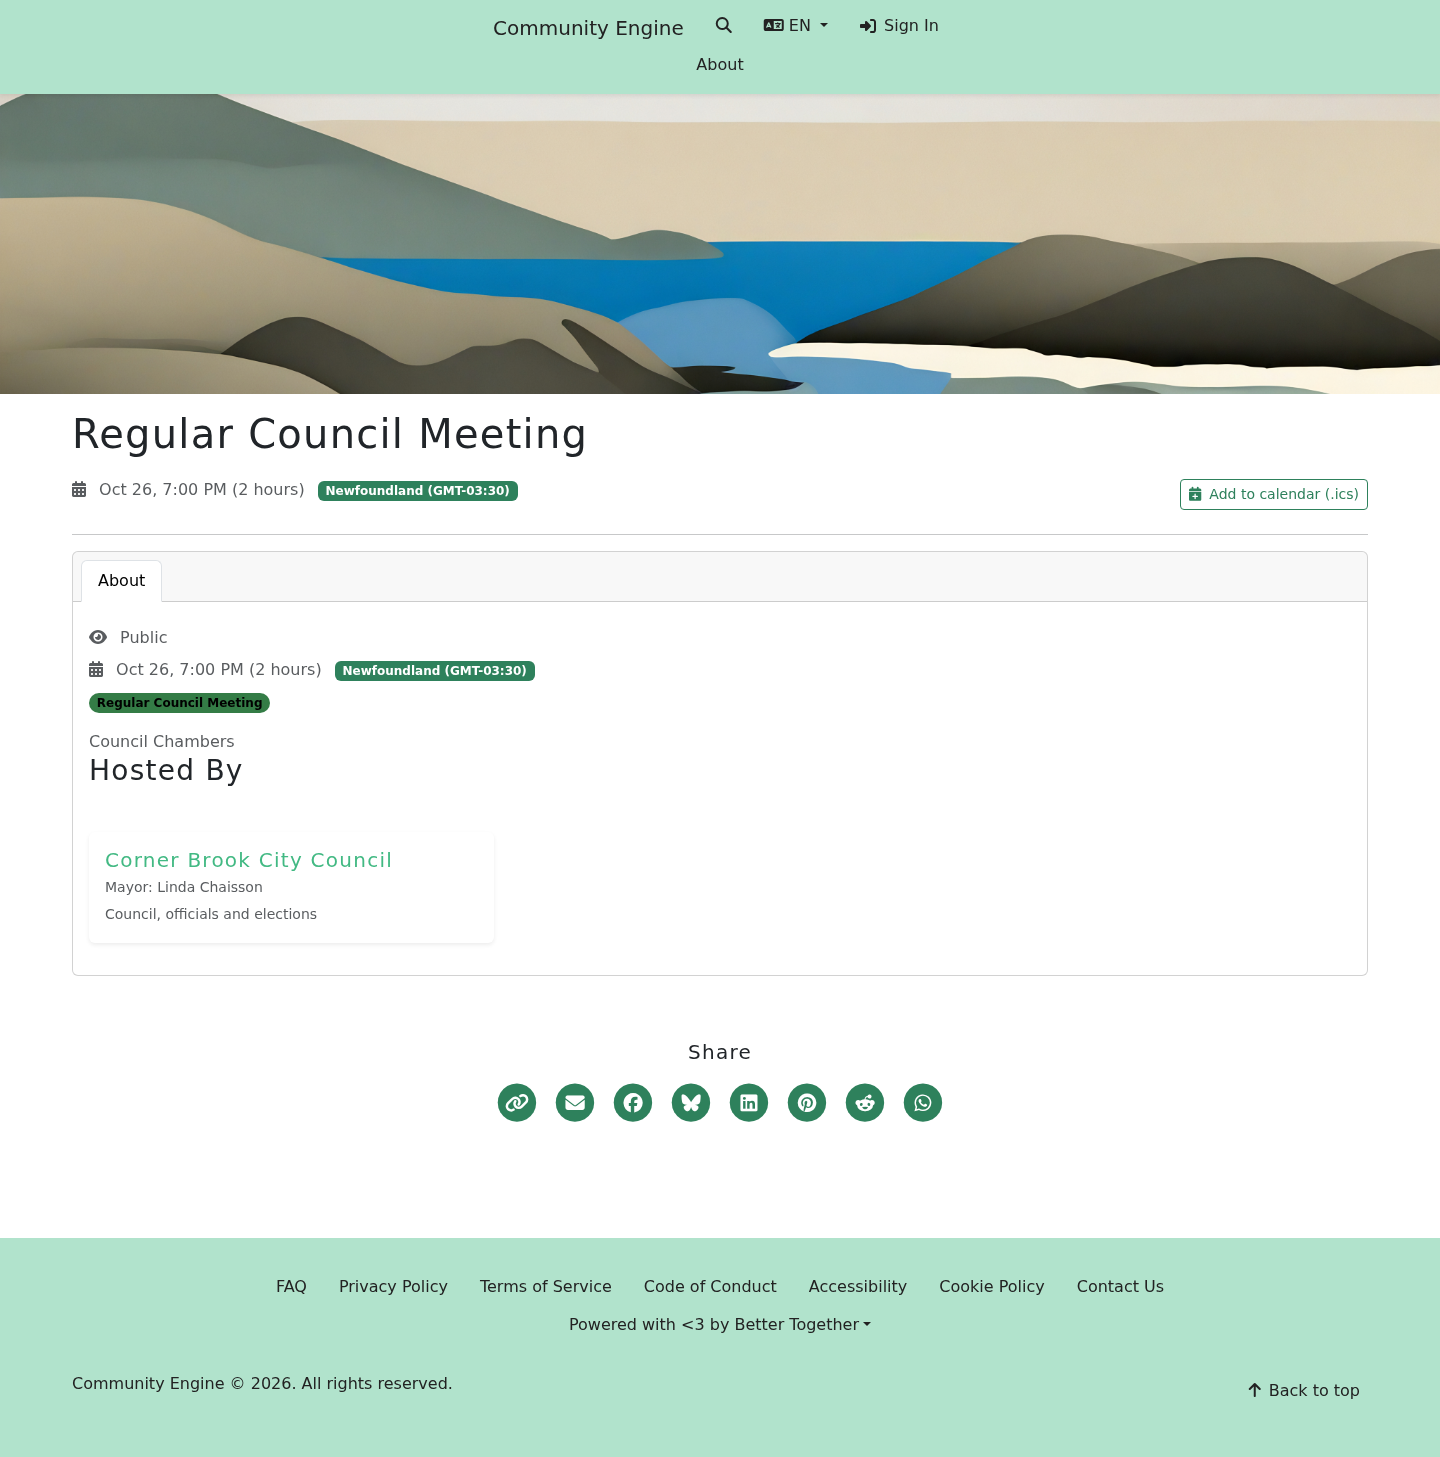
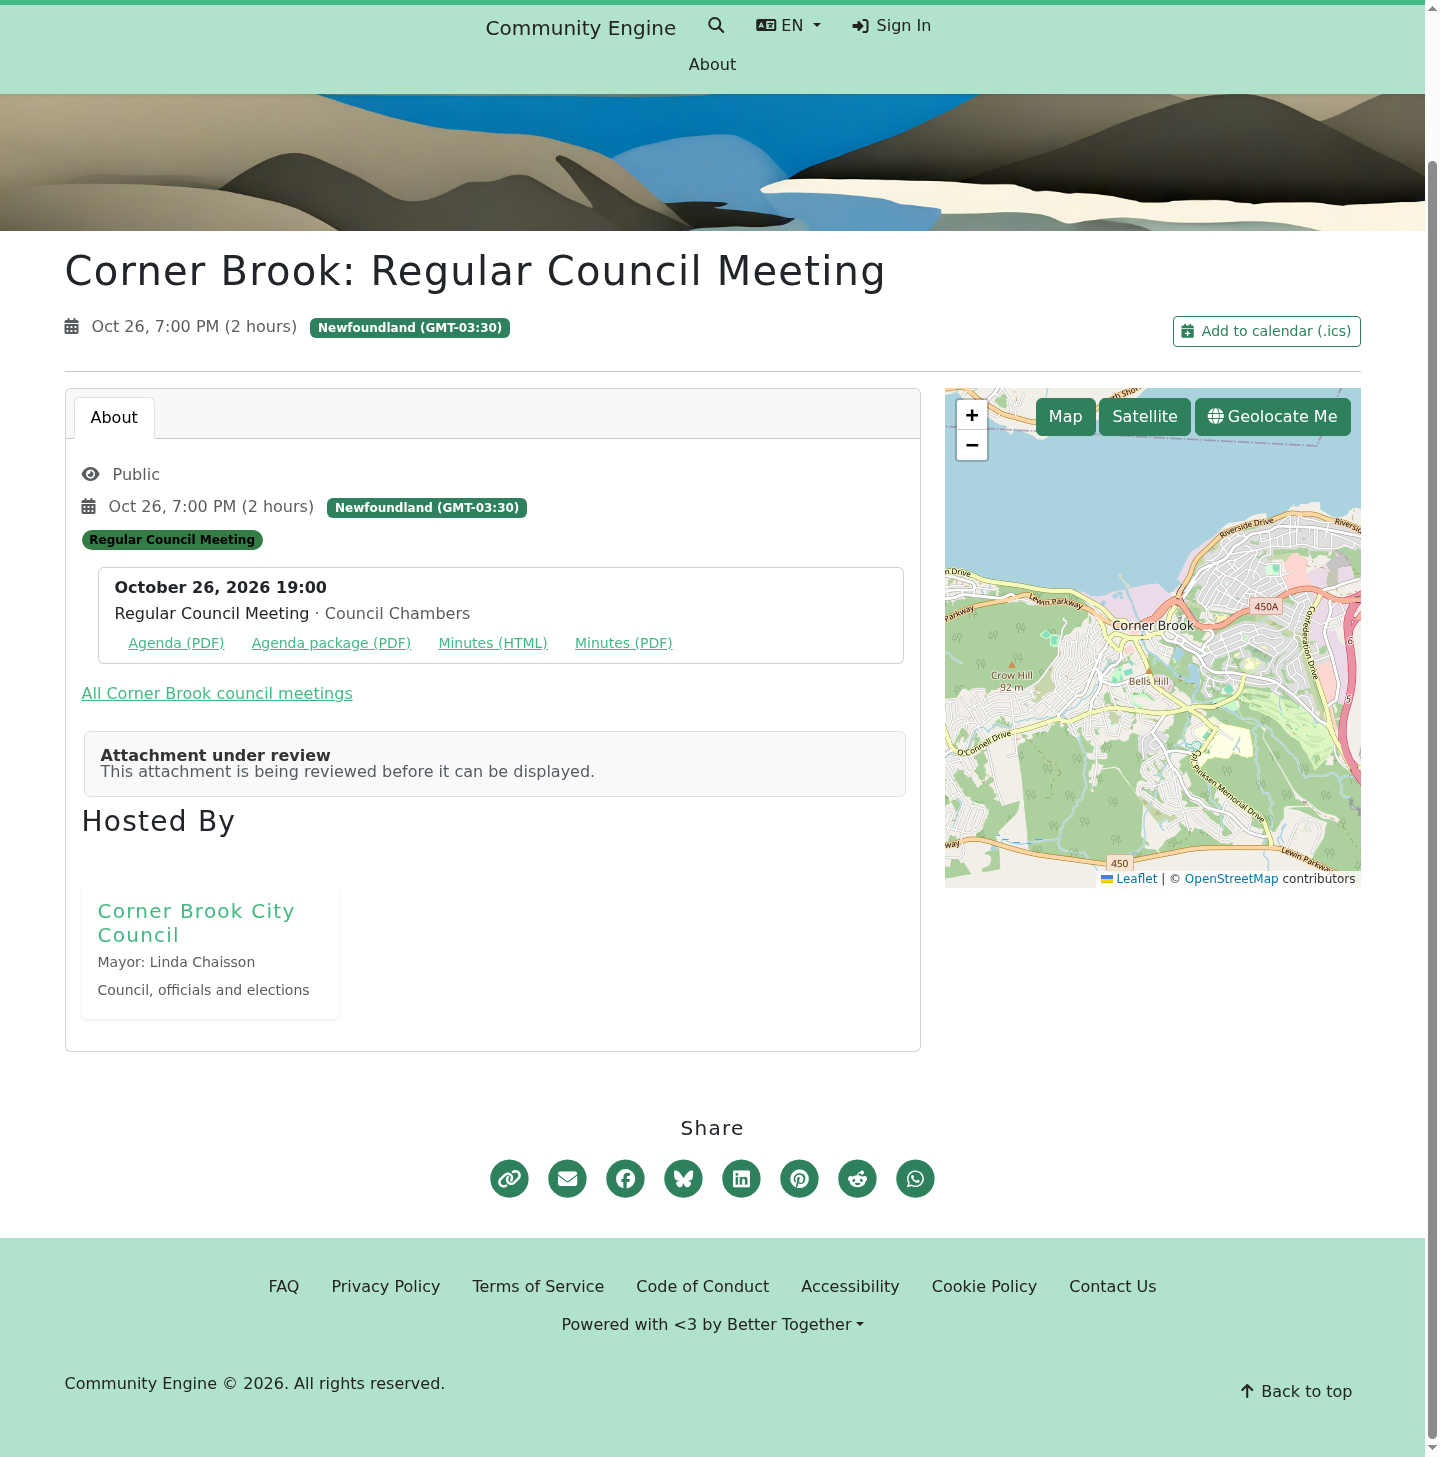
feat(meetings): embed meeting in event description, settlement-first title, locate at settlement

diff --git a/app/services/newfoundland_labrador_online/meetings/importer.rb b/app/services/newfoundland_labrador_online/meetings/importer.rb
@@ -25,6 +25,8 @@ module NewfoundlandLabradorOnline
         council = council_community
         return missing(council) unless council
 
+        @settlement = council_settlement
+
         @meetings.each { |meeting| import(council, meeting) }
         @result
       end
@@ -36,11 +38,15 @@ module NewfoundlandLabradorOnline
         @result
       end
 
-      def council_community
-        settlement = BetterTogether::Geography::Settlement.friendly.find(@config.fetch('council'))
-        Civic::Municipality.for(settlement)&.council
+      def council_settlement
+        BetterTogether::Geography::Settlement.friendly.find(@config.fetch('council'))
       rescue ActiveRecord::RecordNotFound
         nil
+      end
+
+      def council_community
+        settlement = council_settlement
+        settlement && Civic::Municipality.for(settlement)&.council
       end
 
       def import(council, data)
@@ -55,17 +61,18 @@ module NewfoundlandLabradorOnline
       def write(council, data, meeting, checksum)
         Meeting.transaction do
           meeting ||= Meeting.new(source: @source_key, source_id: data[:source_id])
-          meeting.update!(attributes_for(council, data, checksum))
+          meeting.update!(attributes_for(council, data, checksum, meeting.details))
           sync_documents(meeting, data[:documents])
           meeting.update!(event: write_event(meeting, council, data))
         end
       end
 
-      def attributes_for(council, data, checksum)
+      def attributes_for(council, data, checksum, details)
         body = @config.fetch('bodies').fetch(data[:body_type]) { unknown_body(data[:body_type]) }
         { body: council, kind: body['kind'], body_key: body['key'], title: data[:title], starts_at: data[:starts_at],
           location: data[:location], status: status_for(data), portal_url: data[:portal_url],
-          source_checksum: checksum, fetched_at: Time.current }
+          source_checksum: checksum, fetched_at: Time.current,
+          details: details.merge('video_urls' => data[:video_urls]) }
       end
 
       def unknown_body(type)
@@ -91,17 +98,61 @@ module NewfoundlandLabradorOnline
         platform = BetterTogether::Platform.find_by!(host: true)
         event = BetterTogether::Event.find_or_initialize_by(platform:, source_id: "#{@source_key}:#{data[:source_id]}")
         event.assign_attributes(event_attributes(meeting, data))
+        event.attachment_block_ids = video_block_ids(platform, meeting)
+        locate(event)
         event.event_hosts.build(host: council) if event.new_record?
         event.save!
         event.categories = [category_for(platform, data[:body_type])]
         event
       end
 
+      # Located at the council's city hall when the source configures an address (its geocoded point must fall inside
+      # the settlement boundary), else at the settlement itself, so the event lists under the settlement either way.
+      def locate(event)
+        address = @config['address']
+        if address
+          event.address_data = address.to_json
+        else
+          event.settlement_identifier = @settlement.identifier
+        end
+      end
+
+      # The settlement name leads the title so the event reads as a council meeting in any event list.
       def event_attributes(meeting, data)
-        { name: meeting.title.presence || data[:body_type], starts_at: meeting.starts_at,
+        { name: "#{@settlement.name}: #{meeting.title.presence || data[:body_type]}", starts_at: meeting.starts_at,
           duration_minutes: DEFAULT_DURATION_MINUTES, timezone: @config.fetch('time_zone'), privacy: 'public',
           status: meeting.cancelled? ? 'cancelled' : 'confirmed', source_updated_at: Time.current,
-          description: meeting.location.to_s }
+          description: description_html(meeting) }
+      end
+
+      # The meeting card (an Action Text attachment, so it carries the location and portal documents) and a link to
+      # the council's full meeting list. A recording is attached as a video block after this text (see video_block_ids).
+      def description_html(meeting)
+        card = ActionText::Attachment.from_attachable(meeting).to_html
+        "#{card}<p><a href=\"#{listing_path}\">#{ERB::Util.h(listing_label)}</a></p>"
+      end
+
+      def listing_path
+        code = Province.code_for(@settlement.state)
+        Rails.application.routes.url_helpers.newfoundland_labrador_online_municipality_meetings_path(
+          code, @settlement, locale: I18n.default_locale
+        )
+      end
+
+      def listing_label
+        I18n.t('newfoundland_labrador_online.municipal_meetings.index.all_meetings', name: @settlement.name)
+      end
+
+      # One platform video block per meeting recording, reused on every import.
+      def video_block_ids(platform, meeting)
+        url = Array(meeting.details['video_urls']).first
+        return [] unless url
+
+        block = BetterTogether::Content::VideoBlock.find_or_initialize_by(platform:,
+                                                                          id: meeting.details['video_block_id'])
+        block.update!(video_url: url, caption: meeting.title) unless block.persisted? && block.video_url == url
+        meeting.update!(details: meeting.details.merge('video_block_id' => block.id))
+        [block.id]
       end
 
       def category_for(platform, body_type)

diff --git a/spec/services/newfoundland_labrador_online/meetings/importer_spec.rb b/spec/services/newfoundland_labrador_online/meetings/importer_spec.rb
@@ -40,6 +40,49 @@ RSpec.describe NewfoundlandLabradorOnline::Meetings::Importer do
     expect(event.event_hosts.map(&:host)).to eq([council])
   end
 
+  it 'puts the settlement name first in the event title' do
+    import_meetings
+
+    expect(meeting.event.name).to eq('Corner Brook: Regular Council Meeting')
+  end
+
+  it 'describes the event with documents and a link to all council meetings, and embeds the recording',
+     :aggregate_failures do
+    import_meetings
+    event = meeting.event.reload
+    html = event.description.body.to_s
+
+    expect(html).to include('Council Chambers', 'DocumentId=103', '/en/e/municipalities/nl/corner-brook/meetings',
+                            'All Corner Brook council meetings')
+    video = event.description.body.attachables.grep(BetterTogether::Content::VideoBlock).sole
+    expect(video.attachment_embed_url).to eq('https://www.youtube-nocookie.com/embed/abc123xyz00')
+  end
+
+  it 'embeds the meeting as an attachment whose rendering does not link back to the event', :aggregate_failures do
+    import_meetings
+    body = meeting.event.reload.description.body
+
+    expect(body.attachables).to include(meeting)
+    expect(body.to_s).to include('meeting-attachment')
+    expect(body.to_s).not_to include("/events/#{meeting.event.slug}")
+    expect(body.to_trix_html).to include('meeting-embed-preview')
+  end
+
+  it 'locates the event at the settlement so it lists under the settlement events', :aggregate_failures do
+    import_meetings
+
+    expect(meeting.event.settlement_identifier).to eq(settlement.identifier)
+    expect(BetterTogether::Event.located_in(settlement)).to include(meeting.event)
+  end
+
+  it 'reuses the video block on later imports' do
+    import_meetings
+    changed = fixture_meetings.map { |m| m[:source_id].end_with?('001') ? m.merge(location: 'Room 5') : m }
+    import_meetings(meetings: changed)
+
+    expect(BetterTogether::Content::VideoBlock.count).to eq(1)
+  end
+
   it 'tags events with a meeting category per body, with icon and colour', :aggregate_failures do
     import_meetings
 

diff --git a/app/models/newfoundland_labrador_online/meeting.rb b/app/models/newfoundland_labrador_online/meeting.rb
@@ -4,6 +4,9 @@ module NewfoundlandLabradorOnline
   # A public meeting of a civic body (a council, committee, board or legislature), as published by the body's host.
   # The meeting is the source of truth; its Event is the calendar projection, rewritten on every import.
   class Meeting < BetterTogether::ApplicationRecord
+    # Embeddable in rich text (registered in AttachableRegistry); an event description holds a signed reference.
+    include ActionText::Attachable
+
     self.table_name = 'meetings'
 
     KINDS = %w[council committee board sitting].freeze
@@ -25,5 +28,16 @@ module NewfoundlandLabradorOnline
     def cancelled? = status == 'cancelled'
     def held? = status == 'held'
     def category = event&.categories&.first
+
+    # Meetings are public records, so the attachable registry may always render them.
+    def privacy_public? = true
+    def visible? = true
+
+    def to_attachable_partial_path = 'newfoundland_labrador_online/meetings/attachment'
+    def to_trix_content_attachment_partial_path = 'newfoundland_labrador_online/meetings/attachment_trix'
+
+    def attachable_plain_text_representation(_caption = nil)
+      "#{title} (#{starts_at.to_date.iso8601})"
+    end
   end
 end

diff --git a/spec/docs_screenshots/council_meetings_spec.rb b/spec/docs_screenshots/council_meetings_spec.rb
@@ -49,11 +49,10 @@ RSpec.describe 'Documentation screenshots for council meetings', :js, type: :fea
   it 'captures the council as host on its event page' do
     meeting = NewfoundlandLabradorOnline::Meeting.find_by!(source_id: '11111111-aaaa-4aaa-8aaa-000000000001')
     visit better_together.event_path(meeting.event, locale:)
-    sel = '.municipality-host-card'
+    callouts = [{ selector: '#event-description', title: 'Documents, all-meetings link and the recording' },
+                { selector: '.municipality-host-card', title: 'Council host card links to the municipality page' }]
 
-    callouts = [{ selector: sel, title: 'Council host card links to the municipality page' }]
-
-    expect(captured('council_meeting_event_host', callouts, scroll_to: sel)).to all(be > 10_000)
+    expect(captured('council_meeting_event_host', callouts, scroll_to: '.municipality-host-card')).to all(be > 10_000)
   end
 end
 # rubocop:enable RSpec/MultipleExpectations

diff --git a/config/initializers/better_together_models.rb b/config/initializers/better_together_models.rb
@@ -32,7 +32,7 @@ ActiveSupport::Reloader.to_prepare do
   # Video and image blocks are accepted in rich text and rendered while public (CE's attachable registry); the
   # scrubber keeps the video iframe.
   BetterTogether::ContentSecurity::AttachableRegistry.register(
-    'BetterTogether::Content::VideoBlock', 'BetterTogether::Content::Image'
+    'BetterTogether::Content::VideoBlock', 'BetterTogether::Content::Image', 'NewfoundlandLabradorOnline::Meeting'
   )
   ActionText::ContentHelper.scrubber = BetterTogether::ContentSecurity::VideoEmbedScrubber.new
 end

diff --git a/app/models/newfoundland_labrador_online/meeting_document.rb b/app/models/newfoundland_labrador_online/meeting_document.rb
@@ -13,7 +13,7 @@ module NewfoundlandLabradorOnline
     validates :kind, inclusion: { in: KINDS }
     validates :format, inclusion: { in: FORMATS }
     validates :title, :url, presence: true
-    validates :url, format: { with: %r{\Ahttps://}, message: 'must be an https URL' }
+    validates :url, format: { with: %r{\Ahttps://\S+\z}, message: 'must be an https URL' }
     validates :url, uniqueness: { scope: %i[meeting_id kind format] }
   end
 end
